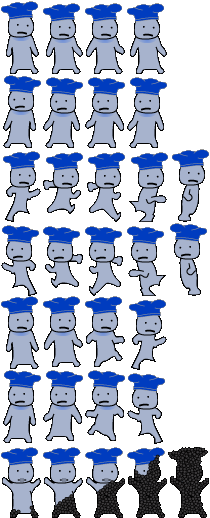
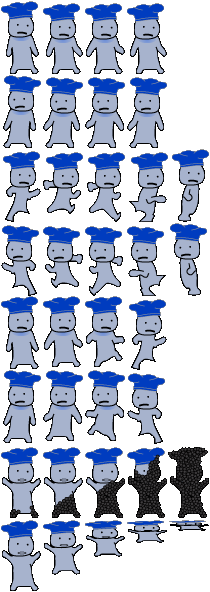
squash animation

diff --git a/src/cakewalk/PlayerObject.ts b/src/cakewalk/PlayerObject.ts
@@ -94,7 +94,7 @@ export class PlayerObject extends MainGameSprite implements IRectCollider, IPhys
       }
       if ((normalDirs[0] && normalDirs[2]) || (normalDirs[1] && normalDirs[3])) {
         SoundManager.instance.playFX(this.gameSoundEffects[5]);
-        this.respawn();
+        this.respawn('squash');
 
       }
     }
@@ -206,6 +206,12 @@ export class PlayerObject extends MainGameSprite implements IRectCollider, IPhys
     if (reason != null) {
       if(reason == 'fire'){
         this.animate('burn')
+        var tw : Tween;
+        TweenManager.instance.add(tw = new Tween(this)
+          .animate(new TweenParam(TweenAttributeType.Alpha, 1.0, 0.0, this.respawnTime - 0.5, TweenFunctionType.Linear)));
+      }
+      if(reason == 'squash'){
+        this.animate('squash')
         var tw : Tween;
         TweenManager.instance.add(tw = new Tween(this)
           .animate(new TweenParam(TweenAttributeType.Alpha, 1.0, 0.0, this.respawnTime - 0.5, TweenFunctionType.Linear)));
